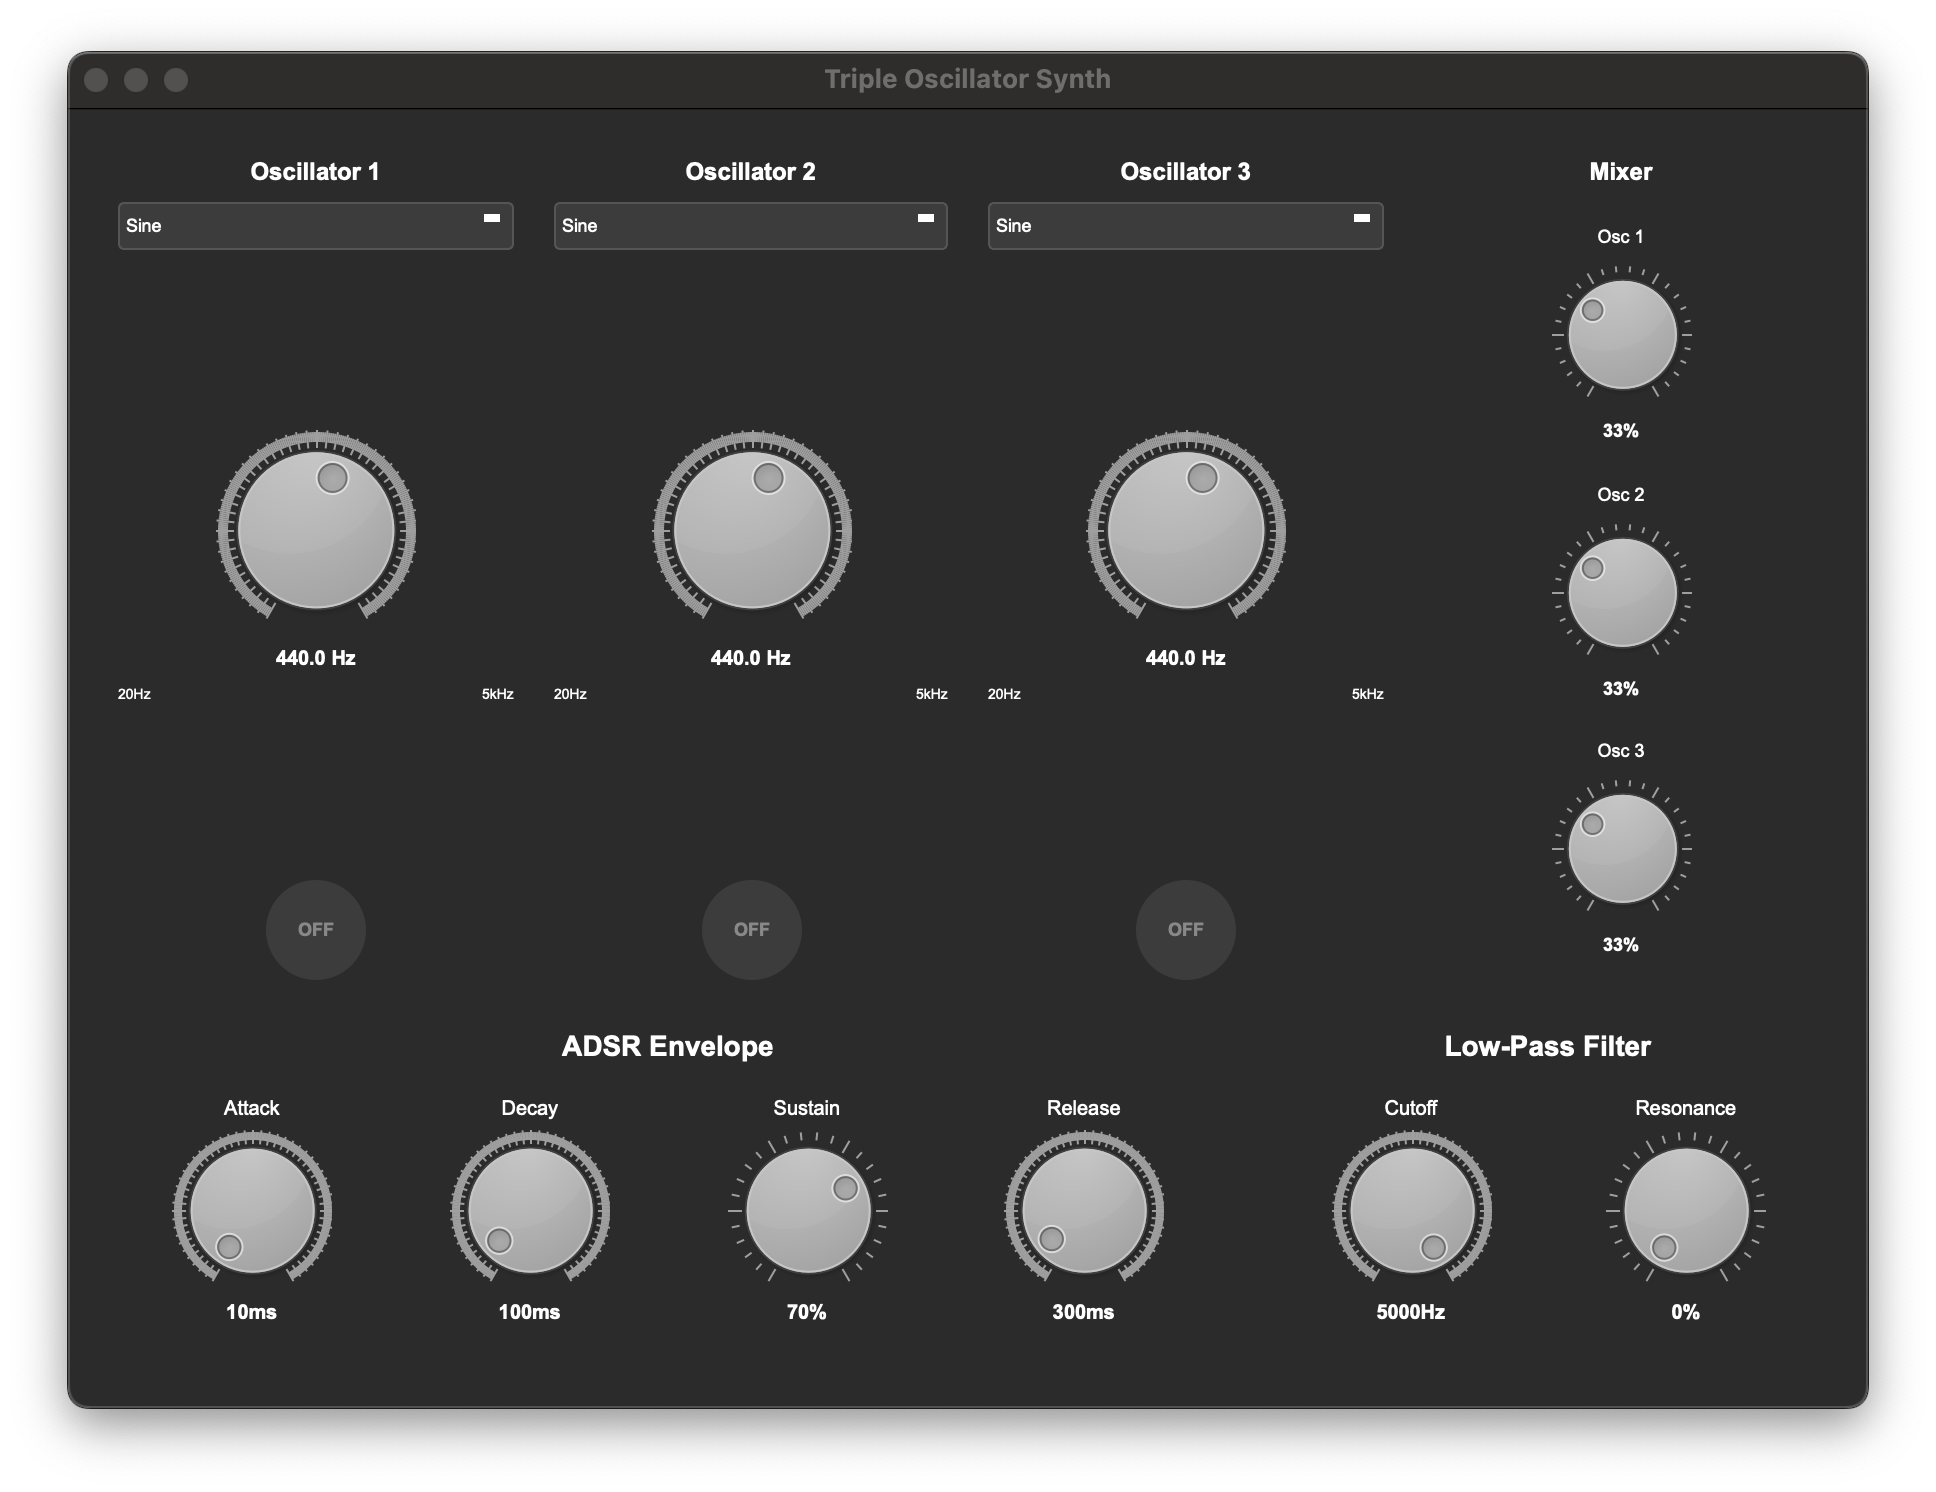
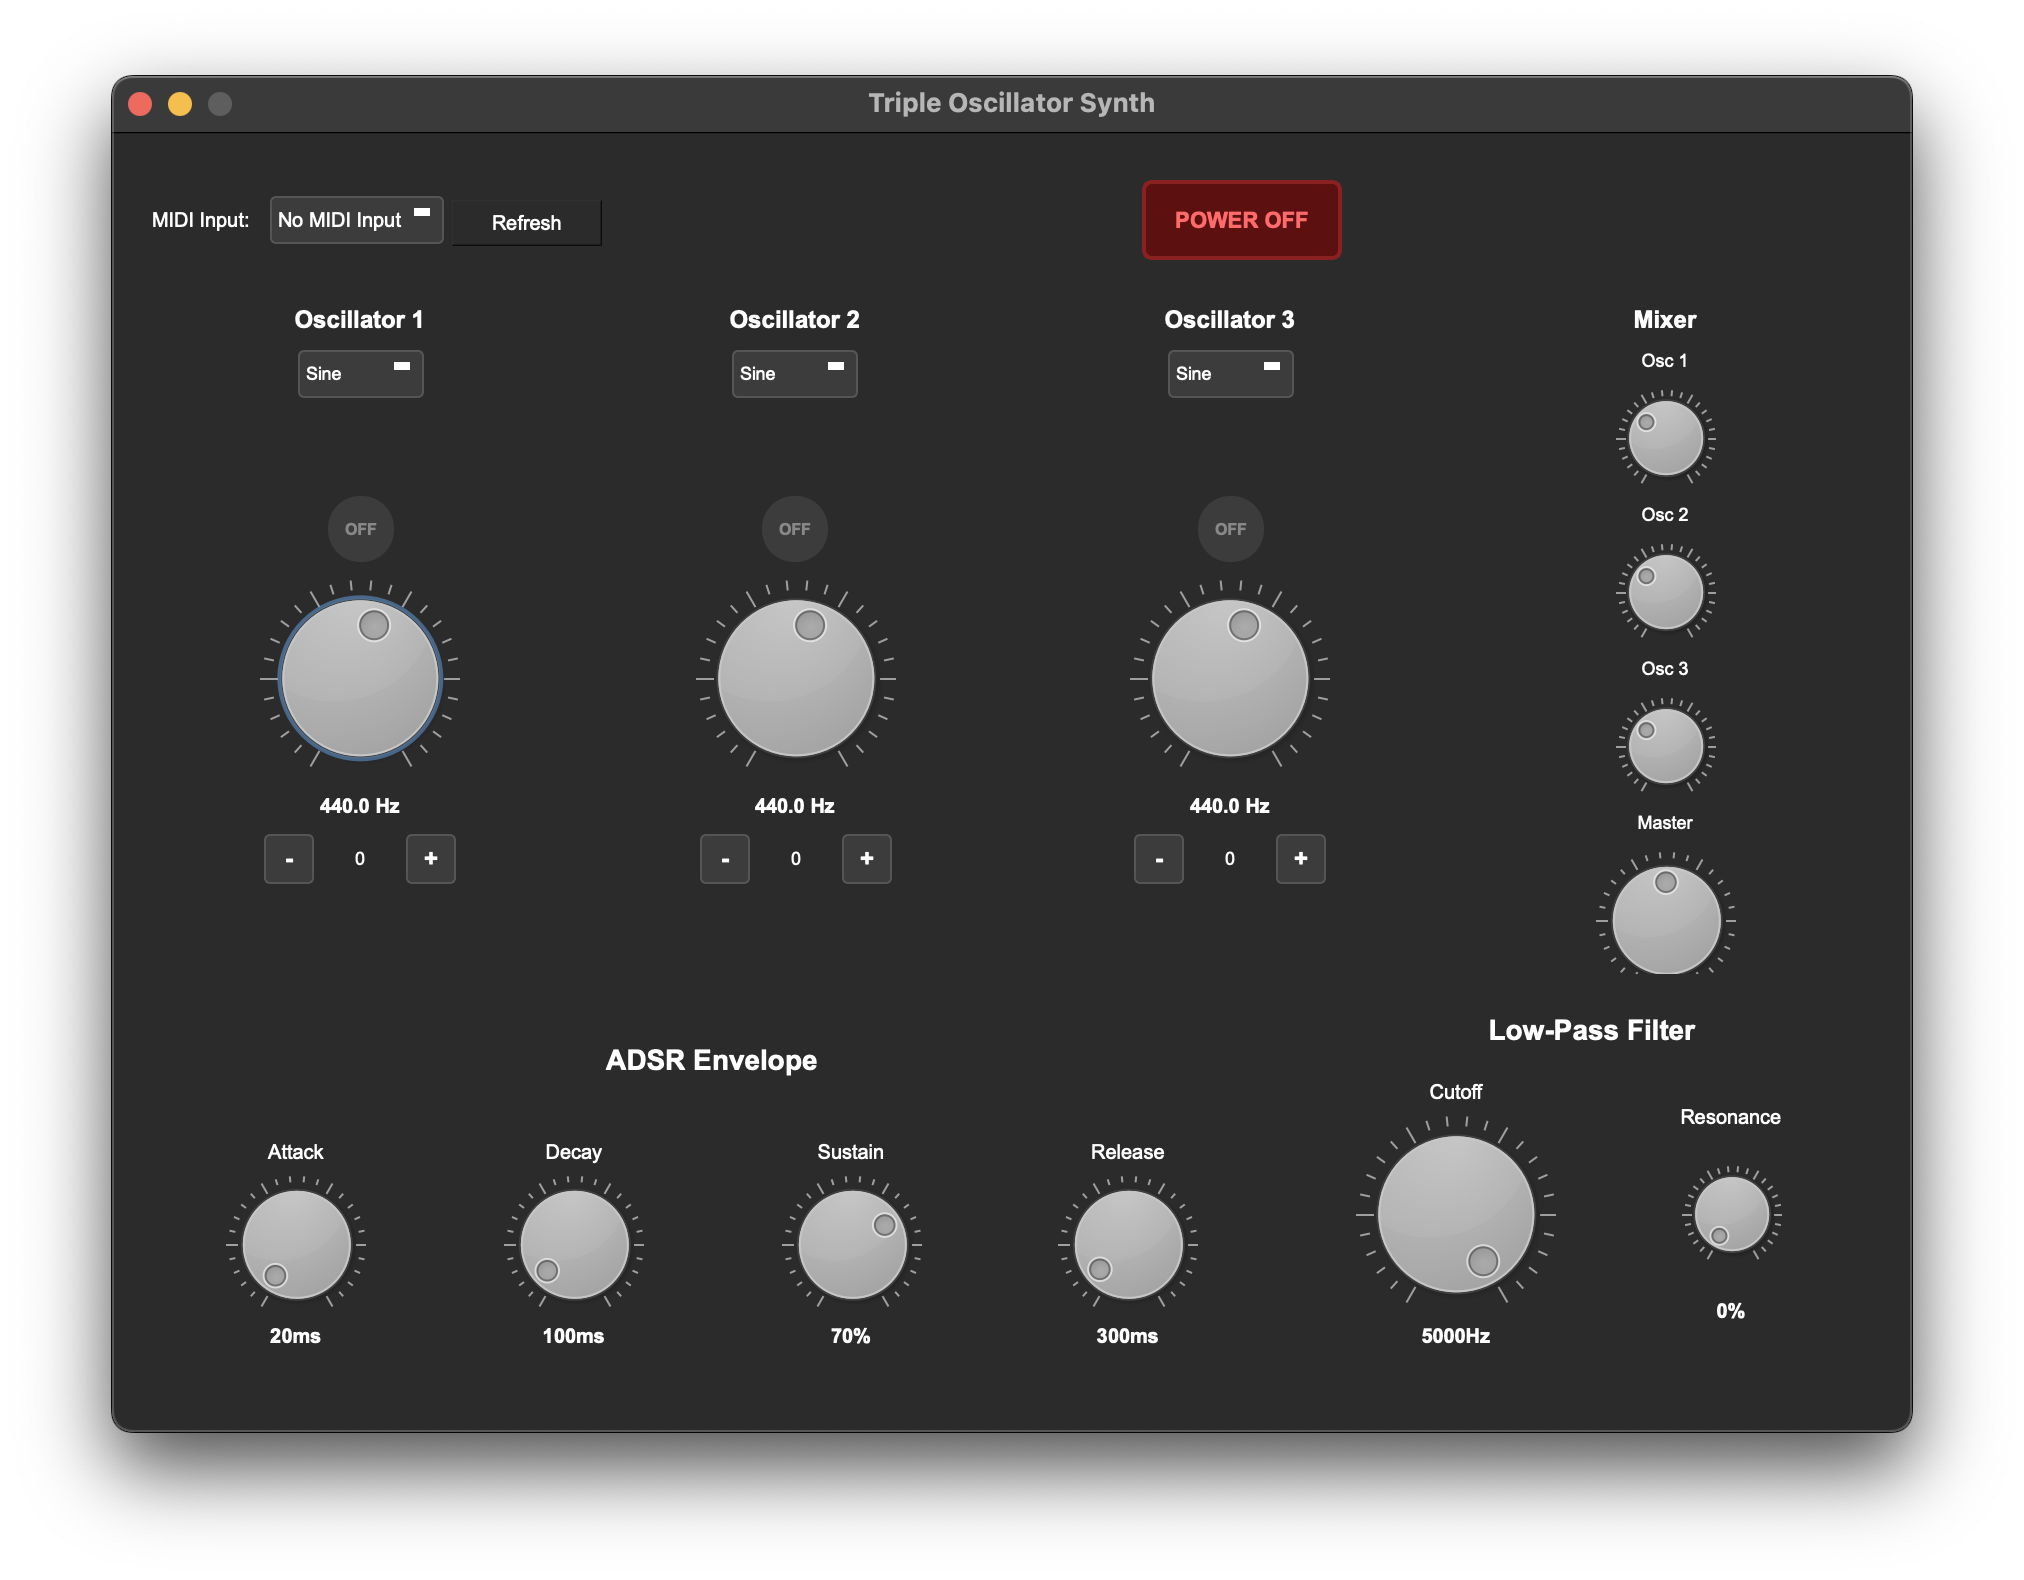
Fix UI issues: circular buttons, ADSR labels, envelope retriggering, and update docs
This commit addresses several UI refinements and fixes critical envelope behavior issues:

UI Fixes:
- Fixed ON/OFF buttons to be perfectly circular (border-radius: 16px with explicit sizing)
- Widened waveform selector to prevent text clipping
- Removed redundant volume percentage labels that were overlapping with knobs
- Fixed ADSR knob labels to display scaled values (ms/Hz) instead of raw 0-100 values
- Implemented combined callback pattern for real-time label updates

ADSR Envelope Fixes:
- Added force_reset() method to EnvelopeGenerator for proper drone mode behavior
- Fixed envelope retriggering in drone mode (ON button now always starts from 0)
- Fixed MIDI mode envelope reset (new notes properly retrigger from 0, not current level)
- Changed toggle_oscillator() to call force_reset() instead of release_note() when turning OFF

Documentation Updates:
- Updated README with MIDI Support section highlighting new capabilities
- Added dual-mode frequency/detune controls to features
- Updated requirements section with MIDI dependencies (mido, python-rtmidi)
- Added force_reset() to EnvelopeGenerator class diagram
- Marked MIDI and octave switches as completed in roadmap
- Updated development journey with recent milestones
- Refreshed screenshot to show current UI state

Technical Details:
- Button styling now uses border-radius: 16px (50% of 33px) with explicit min/max constraints
- Envelope trigger() resets level to 0.0 for standard monophonic synth behavior
[…]

diff --git a/sine_generator_qt.py b/sine_generator_qt.py
@@ -90,7 +90,8 @@ class EnvelopeGenerator:
         """Trigger note on (start attack phase)"""
         self.phase = 'attack'
         self.samples_in_phase = 0
-        self.attack_start_level = self.level  # Remember current level for smooth retriggering
+        self.level = 0.0  # Reset to 0 for standard monophonic synth behavior
+        self.attack_start_level = 0.0  # Always start attack from 0
 
     def release_note(self):
         """Trigger note off (start release phase)"""
@@ -98,6 +99,12 @@ class EnvelopeGenerator:
             self.phase = 'release'
             self.samples_in_phase = 0
             self.release_start_level = self.level  # Remember current level for smooth release
+
+    def force_reset(self):
+        """Force envelope to idle state (used when oscillator is turned off)"""
+        self.phase = 'idle'
+        self.level = 0.0
+        self.samples_in_phase = 0
 
     def process(self, num_samples):
         """Generate envelope for num_samples (vectorized for performance)"""
@@ -469,11 +476,10 @@ class SineWaveGenerator(QMainWindow):
         title_label.setFont(QFont("Arial", 12, QFont.Bold))
         layout.addWidget(title_label)
 
-        # Waveform selector (33% narrower)
+        # Waveform selector
         waveform_combo = QComboBox()
         waveform_combo.addItems(["Sine", "Sawtooth", "Square"])
         waveform_combo.setFont(QFont("Arial", 9))
-        waveform_combo.setMaximumWidth(80)  # Limit width to make it narrower
 
         if osc_num == 1:
             self.waveform1_combo = waveform_combo
@@ -503,7 +509,11 @@ class SineWaveGenerator(QMainWindow):
                 background-color: #3c3c3c;
                 color: #888888;
                 border: none;
-                border-radius: 17px;
+                border-radius: 16px;
+                min-width: 33px;
+                max-width: 33px;
+                min-height: 33px;
+                max-height: 33px;
             }
             QPushButton:hover {
                 background-color: #4c4c4c;
@@ -692,11 +702,6 @@ class SineWaveGenerator(QMainWindow):
         knob1_layout.addStretch(1)
         layout.addLayout(knob1_layout)
 
-        self.gain1_label = QLabel("33%")
-        self.gain1_label.setAlignment(Qt.AlignCenter)
-        self.gain1_label.setFont(QFont("Arial", 9, QFont.Bold))
-        layout.addWidget(self.gain1_label)
-
         layout.addStretch(1)
 
         # Gain 2 knob (Small: 50x50)
@@ -724,11 +729,6 @@ class SineWaveGenerator(QMainWindow):
         knob2_layout.addWidget(self.gain2_knob)
         knob2_layout.addStretch(1)
         layout.addLayout(knob2_layout)
-
-        self.gain2_label = QLabel("33%")
-        self.gain2_label.setAlignment(Qt.AlignCenter)
-        self.gain2_label.setFont(QFont("Arial", 9, QFont.Bold))
-        layout.addWidget(self.gain2_label)
 
         layout.addStretch(1)
 
@@ -758,11 +758,6 @@ class SineWaveGenerator(QMainWindow):
         knob3_layout.addStretch(1)
         layout.addLayout(knob3_layout)
 
-        self.gain3_label = QLabel("33%")
-        self.gain3_label.setAlignment(Qt.AlignCenter)
-        self.gain3_label.setFont(QFont("Arial", 9, QFont.Bold))
-        layout.addWidget(self.gain3_label)
-
         layout.addStretch(1)
 
         # Master Volume knob (Medium: 70x70)
@@ -790,11 +785,6 @@ class SineWaveGenerator(QMainWindow):
         master_knob_layout.addWidget(self.master_volume_knob)
         master_knob_layout.addStretch(1)
         layout.addLayout(master_knob_layout)
-
-        self.master_volume_label = QLabel("50%")
-        self.master_volume_label.setAlignment(Qt.AlignCenter)
-        self.master_volume_label.setFont(QFont("Arial", 9, QFont.Bold))
-        layout.addWidget(self.master_volume_label)
 
         layout.addStretch(1)
 
@@ -912,7 +902,19 @@ class SineWaveGenerator(QMainWindow):
                 border: none;
             }
         """)
-        knob.valueChanged.connect(callback)
+
+        # Value label
+        value_label = QLabel(self.format_knob_value(name, initial_val))
+        value_label.setObjectName("value_label")
+        value_label.setAlignment(Qt.AlignCenter)
+        value_label.setFont(QFont("Arial", 10, QFont.Bold))
+
+        # Combined callback that updates both the value and the label
+        def combined_callback(value):
+            callback(value)
+            value_label.setText(self.format_knob_value(name, value))
+
+        knob.valueChanged.connect(combined_callback)
 
         knob_layout = QHBoxLayout()
         knob_layout.addStretch(1)
@@ -920,11 +922,6 @@ class SineWaveGenerator(QMainWindow):
         knob_layout.addStretch(1)
         layout.addLayout(knob_layout)
 
-        # Value label
-        value_label = QLabel(self.format_knob_value(name, initial_val))
-        value_label.setObjectName("value_label")
-        value_label.setAlignment(Qt.AlignCenter)
-        value_label.setFont(QFont("Arial", 10, QFont.Bold))
         layout.addWidget(value_label)
 
         return container
@@ -932,13 +929,17 @@ class SineWaveGenerator(QMainWindow):
     def format_knob_value(self, knob_name, value):
         """Format knob value for display"""
         if knob_name == "Attack" or knob_name == "Decay":
-            return f"{value}ms"
+            # Scale 0-100 to 0-2000ms
+            return f"{value * 20}ms"
         elif knob_name == "Release":
-            return f"{value}ms"
+            # Scale 0-100 to 0-5000ms
+            return f"{value * 50}ms"
         elif knob_name == "Sustain":
             return f"{value}%"
         elif knob_name == "Cutoff":
-            return f"{value}Hz"
+            # Apply logarithmic scaling for cutoff (20-5000 Hz)
+            freq = int(20 * (250 ** (value/100)))
+            return f"{freq}Hz"
         elif knob_name == "Resonance":
             return f"{value}%"
         else:
@@ -1043,18 +1044,14 @@ class SineWaveGenerator(QMainWindow):
 
         if osc_num == 1:
             self.gain1 = gain
-            self.gain1_label.setText(f"{value}%")
         elif osc_num == 2:
             self.gain2 = gain
-            self.gain2_label.setText(f"{value}%")
         else:
             self.gain3 = gain
-            self.gain3_label.setText(f"{value}%")
 
     def update_master_volume(self, value):
         """Update master volume from knob (0-100%)"""
         self.master_volume = value / 100.0
-        self.master_volume_label.setText(f"{value}%")
 
     def update_adsr(self, param, value):
         """Update ADSR parameters"""
@@ -1063,31 +1060,25 @@ class SineWaveGenerator(QMainWindow):
             self.env1.attack = value / 1000.0
             self.env2.attack = value / 1000.0
             self.env3.attack = value / 1000.0
-            self.attack_label_value.setText(f"{value}ms")
         elif param == 'decay':
             self.env1.decay = value / 1000.0
             self.env2.decay = value / 1000.0
             self.env3.decay = value / 1000.0
-            self.decay_label_value.setText(f"{value}ms")
         elif param == 'sustain':
             self.env1.sustain = value / 100.0
             self.env2.sustain = value / 100.0
             self.env3.sustain = value / 100.0
-            self.sustain_label_value.setText(f"{value}%")
         elif param == 'release':
             self.env1.release = value / 1000.0
             self.env2.release = value / 1000.0
             self.env3.release = value / 1000.0
-            self.release_label_value.setText(f"{value}ms")
 
     def update_filter(self, param, value):
         """Update filter parameters"""
         if param == 'cutoff':
             self.filter.cutoff = float(value)
-            self.cutoff_label_value.setText(f"{value}Hz")
         elif param == 'resonance':
             self.filter.resonance = value / 100.0
-            self.resonance_label_value.setText(f"{value}%")
 
     def generate_waveform(self, waveform_type, phase, phase_increment, frames):
         """Generate a waveform based on type"""
@@ -1157,7 +1148,7 @@ class SineWaveGenerator(QMainWindow):
                 self.phase1 = 0  # Osc1 starts at 0
                 self.env1.trigger()
             else:
-                self.env1.release_note()
+                self.env1.force_reset()  # Force to idle so next trigger starts from 0
         elif osc_num == 2:
             self.osc2_on = not self.osc2_on
             button = self.osc2_button
@@ -1165,7 +1156,7 @@ class SineWaveGenerator(QMainWindow):
                 self.phase2 = 2 * np.pi / 3  # Phase offset to reduce interference
                 self.env2.trigger()
             else:
-                self.env2.release_note()
+                self.env2.force_reset()  # Force to idle so next trigger starts from 0
         else:
             self.osc3_on = not self.osc3_on
             button = self.osc3_button
@@ -1173,7 +1164,7 @@ class SineWaveGenerator(QMainWindow):
                 self.phase3 = 4 * np.pi / 3  # Phase offset to reduce interference
                 self.env3.trigger()
             else:
-                self.env3.release_note()
+                self.env3.force_reset()  # Force to idle so next trigger starts from 0
 
         # Update button appearance
         is_on = self.osc1_on if osc_num == 1 else (self.osc2_on if osc_num == 2 else self.osc3_on)
@@ -1185,7 +1176,11 @@ class SineWaveGenerator(QMainWindow):
                     background-color: #f44336;
                     color: white;
                     border: none;
-                    border-radius: 17px;
+                    border-radius: 16px;
+                    min-width: 33px;
+                    max-width: 33px;
+                    min-height: 33px;
+                    max-height: 33px;
                 }
                 QPushButton:hover {
                     background-color: #da190b;
@@ -1198,7 +1193,11 @@ class SineWaveGenerator(QMainWindow):
                     background-color: #3c3c3c;
                     color: #888888;
                     border: none;
-                    border-radius: 17px;
+                    border-radius: 16px;
+                    min-width: 33px;
+                    max-width: 33px;
+                    min-height: 33px;
+                    max-height: 33px;
                 }
                 QPushButton:hover {
                     background-color: #4c4c4c;

diff --git a/README.md b/README.md
@@ -13,11 +13,22 @@ A professional-grade subtractive synthesizer built with Python and PyQt5. Featur
   - Sawtooth: Bright, buzzy sounds
   - Square: Hollow, clarinet-like tones
 - **Frequency Range**: 20 Hz to 5000 Hz (logarithmic scale)
+- **Dual-Mode Frequency Controls**:
+  - Drone mode (no MIDI): Absolute frequency control (20Hz-5kHz)
+  - MIDI mode: Detune control (-100 to +100 cents)
+- **Octave Switches**: Independent octave controls per oscillator (-3 to +3 octaves)
 - **Real-time Frequency Adjustment**: Smooth frequency changes without clicks
 - **Individual On/Off Controls**: Per-oscillator activation with visual feedback
 
+### MIDI Support
+- **MIDI Keyboard Input**: Play notes with any MIDI keyboard
+- **Automatic Mode Switching**: Frequency knobs become detune controls in MIDI mode
+- **Monophonic Voice**: Classic monophonic synthesizer behavior with proper envelope retriggering
+- **Octave Layering**: Combine oscillators at different octaves for rich harmonic textures
+
 ### Mixer
 - **3-Channel Mixer**: Independent volume control (0-100%) for each oscillator
+- **Master Volume**: Global output level control (0-100%)
 - **Real-time Mixing**: Adjust oscillator levels on the fly
 
 ### ADSR Envelope Generator
@@ -137,6 +148,7 @@ classDiagram
         +level: float
         +trigger()
         +release_note()
+        +force_reset()
         +process(num_samples)
     }
 
@@ -255,8 +267,11 @@ sine-synth/
 
 - Python 3.7+
 - numpy >= 1.20.0
+- scipy >= 1.7.0
 - sounddevice >= 0.4.5
 - PyQt5 >= 5.15.0
+- mido >= 1.3.0
+- python-rtmidi >= 1.5.0
 
 ## Development Journey
 
@@ -267,17 +282,21 @@ This project started as a simple sine wave generator and evolved into a full sub
 3. **Multiple Oscillators**: Expanded to 3 oscillators with waveform selection
 4. **ADSR Envelope**: Added amplitude envelope shaping
 5. **Filter**: Implemented resonant low-pass filter
+6. **MIDI Support**: Added MIDI keyboard input with dual-mode frequency/detune controls
+7. **Octave Switches**: Implemented independent octave controls per oscillator
+8. **UI Polish**: Power button, master volume, and refined circular button styling
 
 ## Roadmap
 
 Future enhancements:
-- [ ] MIDI input support for playing with a keyboard
-- [ ] Octave switches for easier musical note selection
+- [x] MIDI input support for playing with a keyboard
+- [x] Octave switches for easier musical note selection
 - [ ] LFO (Low-Frequency Oscillator) for modulation
 - [ ] Additional filter types (high-pass, band-pass)
 - [ ] Effects (reverb, delay, distortion)
 - [ ] Preset management (save/load patches)
 - [ ] VST plugin export
+- [ ] Polyphonic voice support
 
 ## License
 
